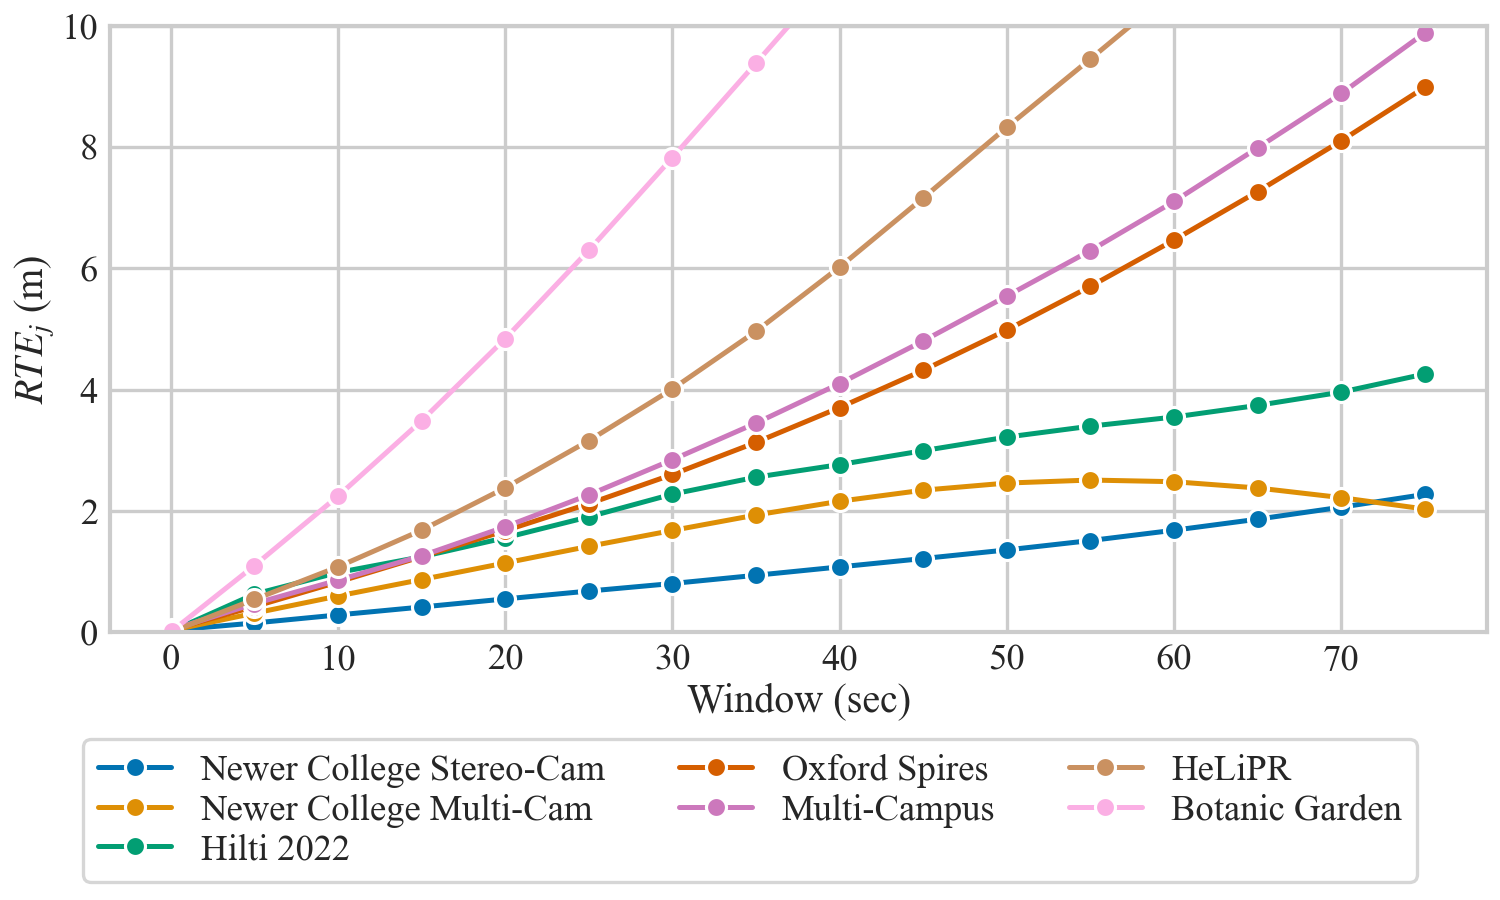
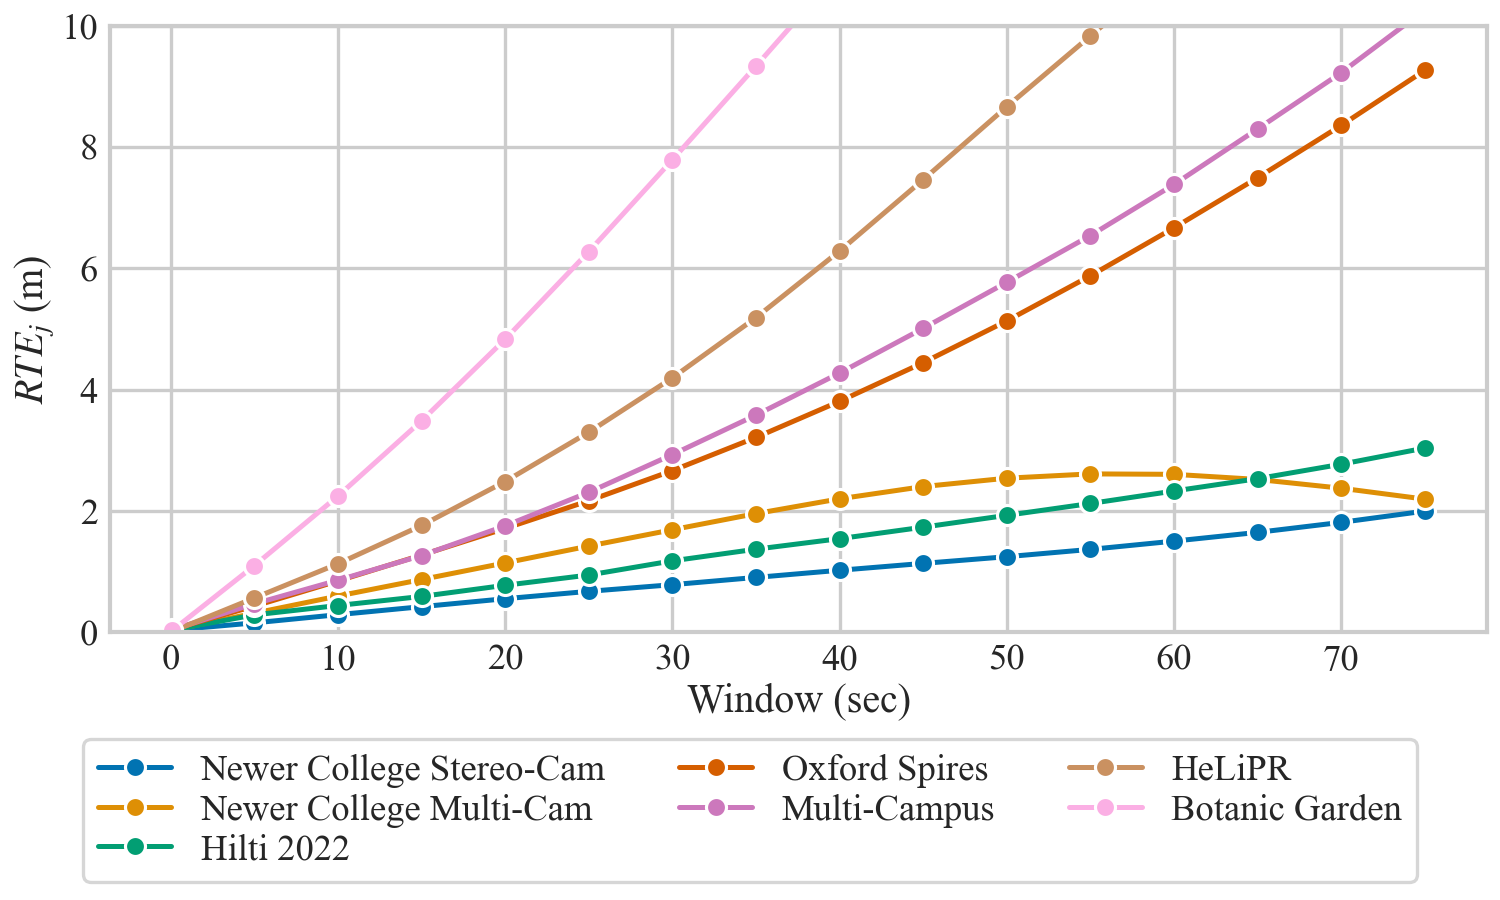
Finalized pseudo and window experiments

diff --git a/experiments/pseudo.py b/experiments/pseudo.py
@@ -1,5 +1,4 @@
 from itertools import product
-from pathlib import Path
 import numpy as np
 import seaborn as sns
 import matplotlib.pyplot as plt
@@ -8,7 +7,7 @@ import polars as pl
 
 sys.path.append("src")
 from params import ExperimentParams, Feature, Initialization
-from wrappers import parser, plt_show
+from wrappers import parser, plt_show, setup_plot
 from run import run_multithreaded
 from stats import compute_cache_stats
 from env import RESULTS_DIR, SUBSET_TRAJ, LEN
@@ -43,35 +42,56 @@ def run(num_threads: int):
 
 
 def plot(name: str, force: bool):
-    df = compute_cache_stats(dir, force=force)
-    df = df.filter(~pl.col("name").str.contains("planar"))
+    palette = setup_plot()
 
-    fig, ax = plt.subplots(1, 2, figsize=(10, 5), layout="constrained", sharey=False)
+    good = [
+        "Newer College Stereo-Cam",
+        "Newer College Multi-Cam",
+        "Multi-Campus",
+        "Oxford Spires",
+        "Botanic Garden",
+        # "Hilti 2022",
+    ]
+
+    df = compute_cache_stats(dir, force=force)
+    df = df.filter(pl.col("Dataset").is_in(good))
+
+    fig, ax = plt.subplots(1, 1, figsize=(5, 3), layout="constrained", sharey=True)
     sns.lineplot(
         df,
-        ax=ax[0],
-        x="pseudo_planar_epsilon",
-        y="w100_RTEr",
-        hue="dataset",
-        style="init",
-        markers=["s", "X", "o", "P"],
-        style_order=["Identity", "ConstantVelocity", "GroundTruth", "Imu"],
-        dashes=False,
-    )
-    sns.lineplot(
-        df,
-        ax=ax[1],
+        ax=ax,
         x="pseudo_planar_epsilon",
         y="w100_RTEt",
-        hue="dataset",
-        style="init",
+        hue="Dataset",
+        style="Initialization",
         markers=["s", "X", "o", "P"],
-        style_order=["Identity", "ConstantVelocity", "GroundTruth", "Imu"],
+        style_order=["Identity", "Constant Velocity", "IMU", "Ground Truth"],
         dashes=False,
-        legend=False,
+        palette=palette,
     )
-    ax[0].legend().set_visible(False)
-    fig.legend(ncol=2, loc="outside lower center")
+    # blank line for the legend
+    new_handles = [4, 5, 8, 9]
+    for _ in new_handles:
+        ax.plot(np.NaN, np.NaN, "-", color="none", label=" ")
+    # Reorder the legend to put blank one in the right spot
+    handles, labels = ax.get_legend_handles_labels()
+    for i in new_handles:
+        handles.insert(i, handles.pop(-1))
+        labels.insert(i, labels.pop(-1))
+
+    ax.tick_params(axis="x", pad=-1)
+    ax.tick_params(axis="y", pad=-1)
+    ax.set_xlabel(r"$\epsilon$", labelpad=1)
+    ax.set_ylabel(r"$RTEt_{10}\ (m)$", labelpad=1)
+    ax.legend().set_visible(False)
+
+    fig.legend(
+        handles=handles,
+        labels=labels,
+        ncol=3,
+        loc="outside lower center",
+        labelspacing=0.15,
+    )
     plt_show(name)
 
 

diff --git a/src/run.py b/src/run.py
@@ -298,16 +298,15 @@ if __name__ == "__main__":
 
     eps = [
         params.ExperimentParams(
-            name="curvature_100",
+            name="original",
             dataset=dataset,
             init=params.Initialization.GroundTruth,
             dewarp=params.Dewarp.Identity,
-            curvature_planar_threshold=100,
-            features=[params.Feature.Planar],
+            features=[params.Feature.Edge],
         )
     ]
 
-    directory = Path("results/25.02.19_kaist_fix_planar")
+    directory = Path("results/25.02.19_helipr_edge_center")
     length = 500
     multithreaded = False
 

diff --git a/src/wrappers.py b/src/wrappers.py
@@ -36,7 +36,15 @@ def setup_plot():
     plt.rcParams["font.family"] = "Times New Roman"
     plt.rcParams["mathtext.fontset"] = "stix"
 
-    return c
+    return {
+        "Newer College Stereo-Cam": c[0],
+        "Newer College Multi-Cam": c[1],
+        "Hilti 2022": c[2],
+        "Oxford Spires": c[3],
+        "Multi-Campus": c[5],
+        "HeLiPR": c[5],
+        "Botanic Garden": c[6],
+    }
 
 
 def parser(name: str) -> argparse.Namespace:

diff --git a/experiments/window.py b/experiments/window.py
@@ -14,7 +14,8 @@ from wrappers import plt_show, parser, setup_plot
 from dataclasses import asdict
 from env import LEN, RESULTS_DIR, SUBSET_TRAJ
 
-dir = RESULTS_DIR / "25.02.10_window_effect_with_edges"
+# weird date, but this is the right one
+dir = RESULTS_DIR / "25.02.19_window_cv_fixed_edges"
 
 
 def run(num_threads: int):

diff --git a/src/params.py b/src/params.py
@@ -54,7 +54,7 @@ class ExperimentParams:
     # registration
     pseudo_planar_epsilon: float = 0.0
     use_plane_to_plane: bool = False
-    init: Initialization = Initialization.GroundTruth
+    init: Initialization = Initialization.ConstantVelocity
     dewarp: Dewarp = Dewarp.Identity
 
     def __post_init__(self):
